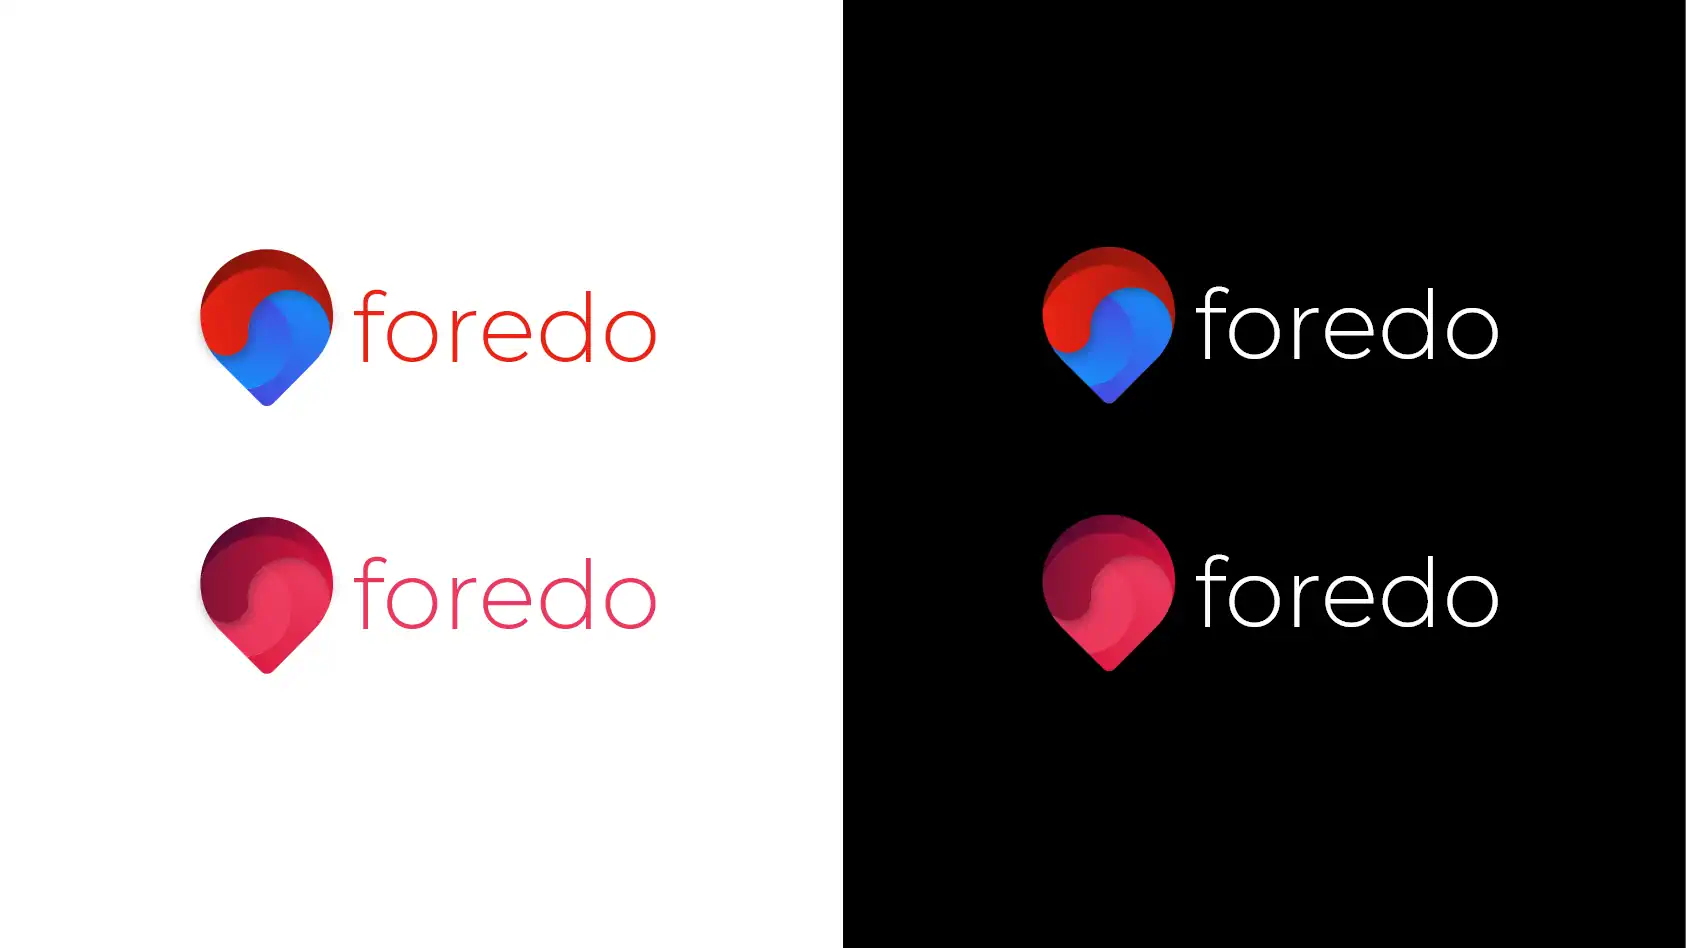
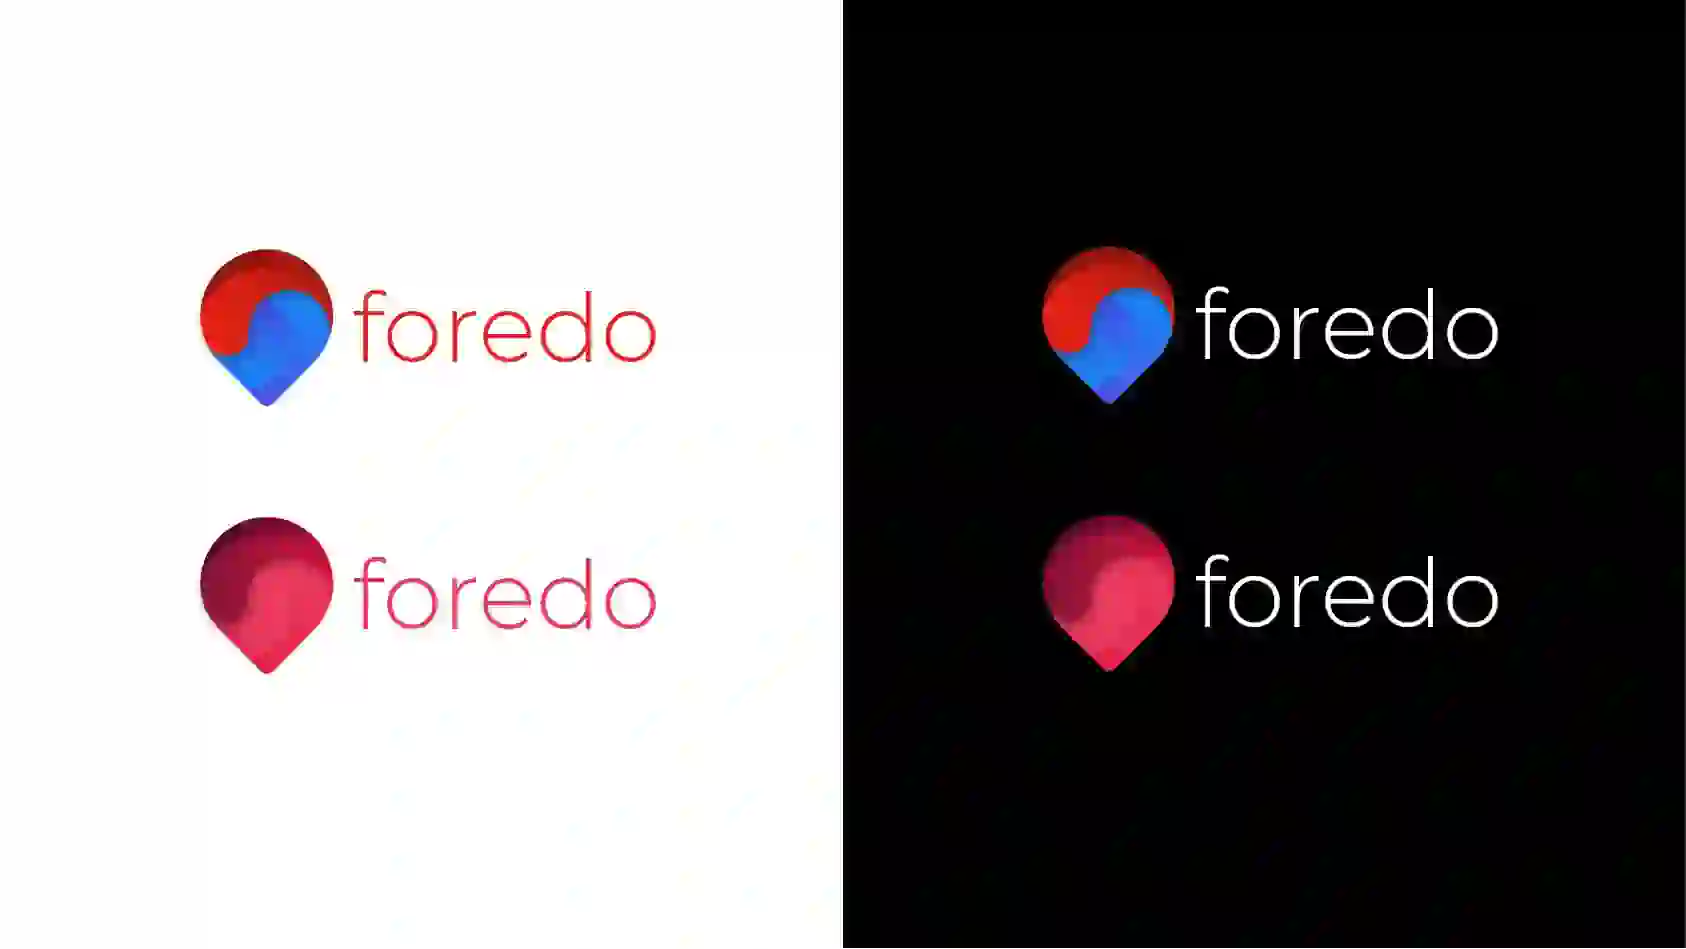
compress Max

diff --git a/gulpfile.js b/gulpfile.js
@@ -24,7 +24,9 @@ gulp.task('webp_l', () => gulp.src('_img/l/*')
 
 gulp.task('webp_conv', () => gulp.src('assets/convert/*')
     .pipe(webp({
-        quality: 20, preset: 'photo', method: 6
+        size: 10000,
+        resize: {width: 2000, height: 1333},
+        quality: 5, preset: 'photo', method: 6
     }))
     .pipe(gulp.dest('assets'))
 )
